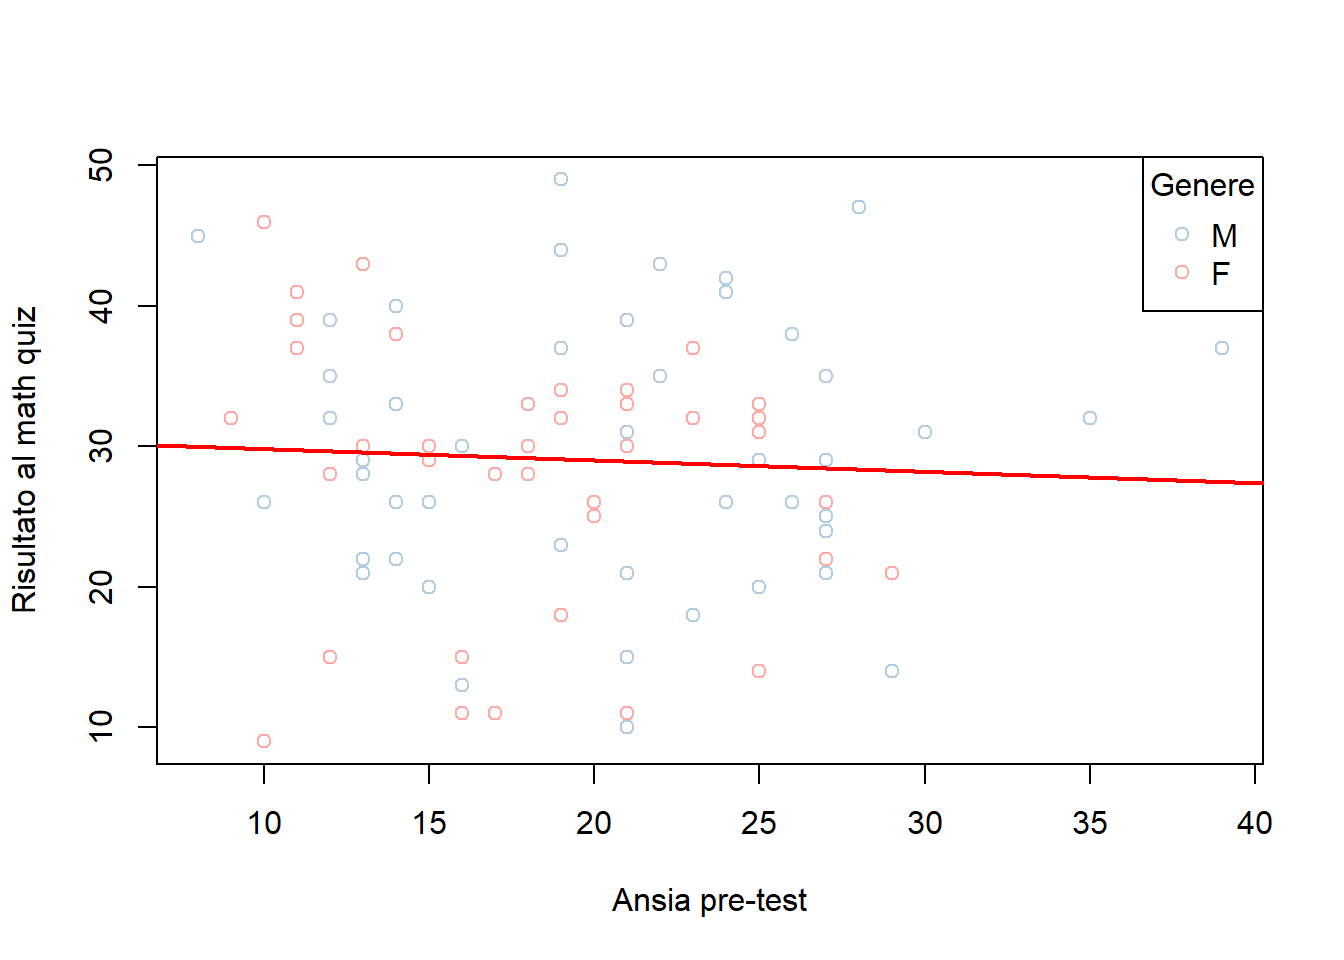
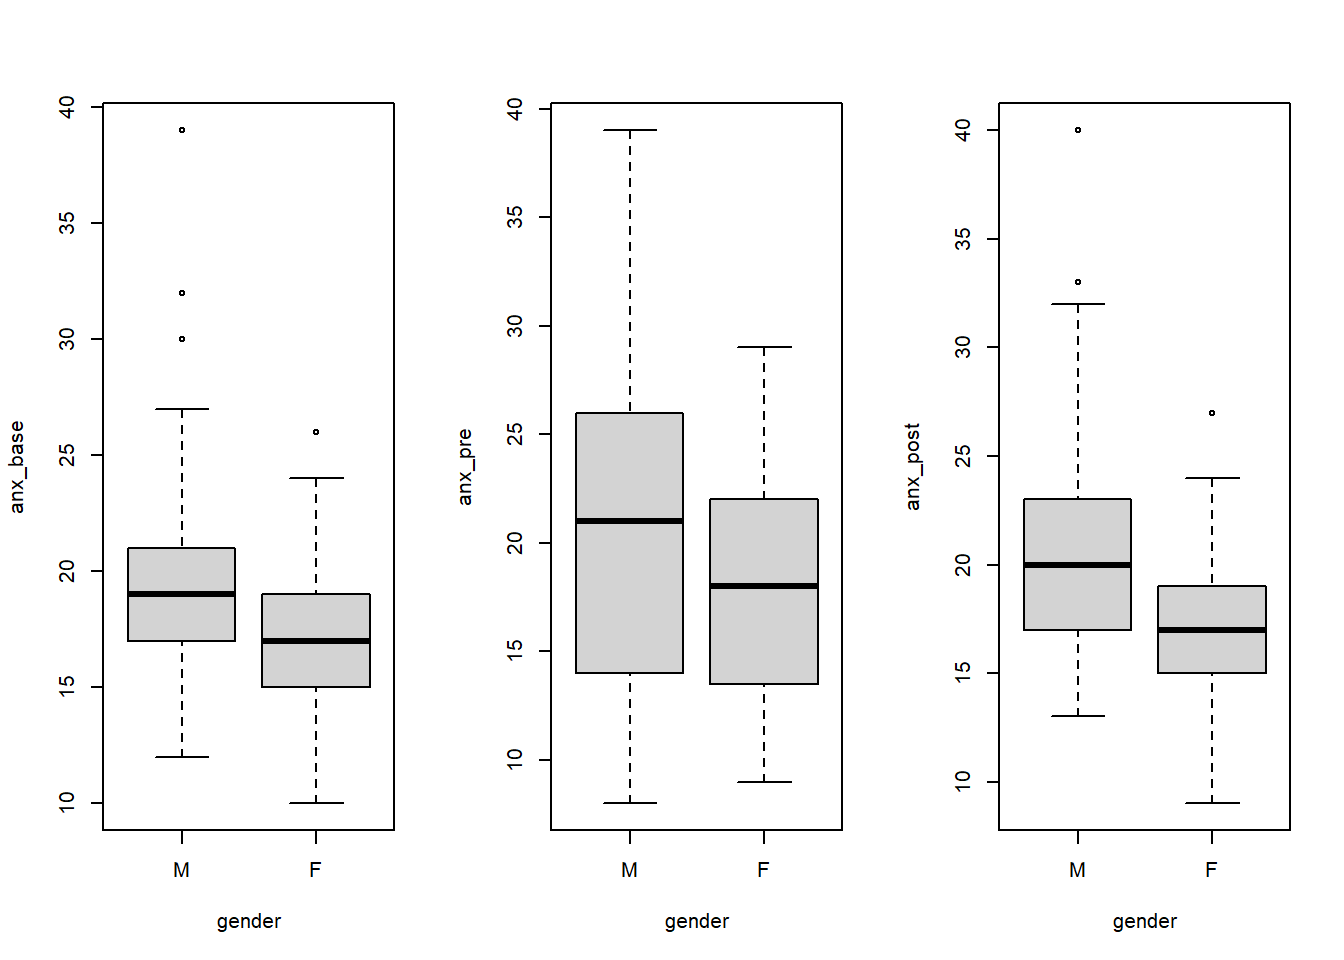
aggiornamento fine html

diff --git a/QUARTO_script_ARCA/QUARTO_script_ARCA.html b/QUARTO_script_ARCA/QUARTO_script_ARCA.html
@@ -2389,6 +2389,7 @@ window.Quarto = {
 <h1 data-number="1"><span class="header-section-number">1</span> Cominciamo!</h1>
 <section id="summary-del-dataset-per-vedere-se-è-tutto-ok" class="level2" data-number="1.1">
 <h2 data-number="1.1" class="anchored" data-anchor-id="summary-del-dataset-per-vedere-se-è-tutto-ok"><span class="header-section-number">1.1</span> Summary del dataset, per vedere se è tutto ok</h2>
+<p>Utilizziamo la library readxl <span class="citation" data-cites="readxl">(<a href="#ref-readxl" role="doc-biblioref">Wickham and Bryan 2025</a>)</span> per leggere il dataset da Excel.</p>
 <div class="cell">
 <div class="sourceCode cell-code" id="cb1"><pre class="sourceCode r code-with-copy"><code class="sourceCode r"><span id="cb1-1"><a href="#cb1-1" aria-hidden="true" tabindex="-1"></a><span class="fu">library</span>(readxl)</span>
 <span id="cb1-2"><a href="#cb1-2" aria-hidden="true" tabindex="-1"></a>dsara <span class="ot">&lt;-</span> <span class="fu">read_excel</span>(<span class="st">&quot;Quarto_ARCA/Templates/html/Sara_dataset.xls&quot;</span>)</span>
@@ -2420,7 +2421,6 @@ window.Quarto = {
                                                </code></pre>
 </div>
 </div>
-<p>Utilizziamo la library readxl <span class="citation" data-cites="readxl">(<a href="#ref-readxl" role="doc-biblioref">Wickham and Bryan 2025</a>)</span> per leggere il dataset da Excel.</p>
 <p>Dal summary notiamo che le prime 3 variabili, che dovrebbero essere categoriali, sono quantitative (dato che calcolano media e i 3 quartili), e non dovrebbe essere così. Rendiamole quindi categoriali:</p>
 <div class="cell">
 <div class="sourceCode cell-code" id="cb3"><pre class="sourceCode r code-with-copy"><code class="sourceCode r"><span id="cb3-1"><a href="#cb3-1" aria-hidden="true" tabindex="-1"></a>mydsara <span class="ot">&lt;-</span> dsara <span class="co">#è buona pratica creare un altro dataset identico per non modificare l&#39;originale</span></span>
@@ -2442,23 +2442,34 @@ window.Quarto = {
 </section>
 <section id="analisi-descrittiva" class="level1" data-number="2">
 <h1 data-number="2"><span class="header-section-number">2</span> Analisi descrittiva</h1>
-<p>Guardiamo prima di tutto come sono distribuite le variabili categoriali tramite la funzione table. In particolare, è interessante vedere se i due gender sono equamente distribuiti tra le diverse condizioni sperimentali.</p>
+<p>Guardiamo prima di tutto come sono distribuite le variabili categoriali tramite la funzione table. In particolare, è interessante vedere se i due gender sono equamente distribuiti tra le diverse condizioni sperimentali.<br>
+Tramite questa funzione, osserviamo le frequenze relative (dove il totale è per riga) di maschi e femmine tra le varie condizioni sperimentali:</p>
 <div class="cell">
-<div class="sourceCode cell-code" id="cb5"><pre class="sourceCode r code-with-copy"><code class="sourceCode r"><span id="cb5-1"><a href="#cb5-1" aria-hidden="true" tabindex="-1"></a><span class="fu">table</span>(mydsara<span class="sc">$</span>gender, mydsara<span class="sc">$</span>cond)</span></code><button title="Copy to Clipboard" class="code-copy-button"><i class="bi"></i></button></pre></div>
+<div class="sourceCode cell-code" id="cb5"><pre class="sourceCode r code-with-copy"><code class="sourceCode r"><span id="cb5-1"><a href="#cb5-1" aria-hidden="true" tabindex="-1"></a><span class="fu">round</span>(<span class="fu">prop.table</span>(<span class="fu">table</span>(mydsara<span class="sc">$</span>gender, mydsara<span class="sc">$</span>cond),<span class="at">margin=</span><span class="dv">1</span>),<span class="dv">2</span>)</span></code><button title="Copy to Clipboard" class="code-copy-button"><i class="bi"></i></button></pre></div>
 <div class="cell-output cell-output-stdout">
 <pre><code>   
-     1  2  3  4
-  M 16 15  9 17
-  F  9 10 16  8</code></pre>
+       1    2    3    4
+  M 0.28 0.26 0.16 0.30
+  F 0.21 0.23 0.37 0.19</code></pre>
 </div>
 </div>
-<p>Da questo notiamo che i maschi si trovano in condizioni più “estreme”, facili o impossibili, mentre le femmine sono distribuite maggiormente in condizioni “medie”.<br>
-A questo punto, è interessante osservare se ci sono differenze nell’ansia pre, durante e post test tra i due gender</p>
+<p>Da questo notiamo che i maschi si trovano principalmente (58%) in condizioni più “estreme”, facili o impossibili, mentre le femmine sono distribuite maggiormente (60%) in condizioni “medie”. Data questa differenza, ci aspettiamo maggiore variabilità post-test nei maschi rispetto alle femmine, verifichiamolo:</p>
 <div class="cell">
-<div class="sourceCode cell-code" id="cb7"><pre class="sourceCode r code-with-copy"><code class="sourceCode r"><span id="cb7-1"><a href="#cb7-1" aria-hidden="true" tabindex="-1"></a><span class="fu">par</span>(<span class="at">mfrow=</span><span class="fu">c</span>(<span class="dv">1</span>,<span class="dv">3</span>))</span>
-<span id="cb7-2"><a href="#cb7-2" aria-hidden="true" tabindex="-1"></a><span class="fu">boxplot</span>(anx_base <span class="sc">~</span> gender, <span class="at">data=</span>mydsara)</span>
-<span id="cb7-3"><a href="#cb7-3" aria-hidden="true" tabindex="-1"></a><span class="fu">boxplot</span>(anx_pre <span class="sc">~</span> gender, <span class="at">data=</span>mydsara)</span>
-<span id="cb7-4"><a href="#cb7-4" aria-hidden="true" tabindex="-1"></a><span class="fu">boxplot</span>(anx_post <span class="sc">~</span> gender, <span class="at">data=</span>mydsara)</span></code><button title="Copy to Clipboard" class="code-copy-button"><i class="bi"></i></button></pre></div>
+<div class="sourceCode cell-code" id="cb7"><pre class="sourceCode r code-with-copy"><code class="sourceCode r"><span id="cb7-1"><a href="#cb7-1" aria-hidden="true" tabindex="-1"></a><span class="fu">sd</span>(mydsara[mydsara<span class="sc">$</span>gender<span class="sc">==</span><span class="st">&quot;M&quot;</span>,]<span class="sc">$</span>anx_post)</span></code><button title="Copy to Clipboard" class="code-copy-button"><i class="bi"></i></button></pre></div>
+<div class="cell-output cell-output-stdout">
+<pre><code>[1] 5.06765</code></pre>
+</div>
+<div class="sourceCode cell-code" id="cb9"><pre class="sourceCode r code-with-copy"><code class="sourceCode r"><span id="cb9-1"><a href="#cb9-1" aria-hidden="true" tabindex="-1"></a><span class="fu">sd</span>(mydsara[mydsara<span class="sc">$</span>gender<span class="sc">==</span><span class="st">&quot;F&quot;</span>,]<span class="sc">$</span>anx_post)</span></code><button title="Copy to Clipboard" class="code-copy-button"><i class="bi"></i></button></pre></div>
+<div class="cell-output cell-output-stdout">
+<pre><code>[1] 3.534202</code></pre>
+</div>
+</div>
+<p>A questo punto, è interessante osservare anche tramite dei grafici se ci sono differenze nell’ansia di base, pre, e post test tra i due gender.</p>
+<div class="cell">
+<div class="sourceCode cell-code" id="cb11"><pre class="sourceCode r code-with-copy"><code class="sourceCode r"><span id="cb11-1"><a href="#cb11-1" aria-hidden="true" tabindex="-1"></a><span class="fu">par</span>(<span class="at">mfrow=</span><span class="fu">c</span>(<span class="dv">1</span>,<span class="dv">3</span>))</span>
+<span id="cb11-2"><a href="#cb11-2" aria-hidden="true" tabindex="-1"></a><span class="fu">boxplot</span>(anx_base <span class="sc">~</span> gender, <span class="at">data=</span>mydsara)</span>
+<span id="cb11-3"><a href="#cb11-3" aria-hidden="true" tabindex="-1"></a><span class="fu">boxplot</span>(anx_pre <span class="sc">~</span> gender, <span class="at">data=</span>mydsara)</span>
+<span id="cb11-4"><a href="#cb11-4" aria-hidden="true" tabindex="-1"></a><span class="fu">boxplot</span>(anx_post <span class="sc">~</span> gender, <span class="at">data=</span>mydsara)</span></code><button title="Copy to Clipboard" class="code-copy-button"><i class="bi"></i></button></pre></div>
 <div class="cell-output-display">
 <div>
 <figure class="figure">
@@ -2473,14 +2484,15 @@ A questo punto, è interessante osservare se ci sono differenze nell’ansia pre
 <h1 data-number="3"><span class="header-section-number">3</span> Correlazioni tra variabili</h1>
 <p>A questo punto, risulta interessante scoprire se l’ansia pre-test possa essere predittiva del risultato al math quiz:</p>
 <div class="cell">
-<div class="sourceCode cell-code" id="cb8"><pre class="sourceCode r code-with-copy"><code class="sourceCode r"><span id="cb8-1"><a href="#cb8-1" aria-hidden="true" tabindex="-1"></a>leg_colori<span class="ot">&lt;-</span> <span class="fu">ifelse</span>(mydsara<span class="sc">$</span>gender <span class="sc">==</span> <span class="st">&quot;M&quot;</span>, <span class="st">&quot;#b3cde0&quot;</span>, <span class="st">&quot;#ffaaa5&quot;</span>)</span>
-<span id="cb8-2"><a href="#cb8-2" aria-hidden="true" tabindex="-1"></a><span class="fu">plot</span>(mydsara<span class="sc">$</span>anx_pre,mydsara<span class="sc">$</span>mathquiz, <span class="at">col =</span> leg_colori, <span class="at">xlab=</span><span class="st">&quot;Ansia pre-test&quot;</span>, <span class="at">ylab=</span><span class="st">&quot;Risultato al math quiz&quot;</span>)</span>
-<span id="cb8-3"><a href="#cb8-3" aria-hidden="true" tabindex="-1"></a>risultati_premat <span class="ot">&lt;-</span> <span class="fu">cor.test</span>(mydsara<span class="sc">$</span>anx_pre, mydsara<span class="sc">$</span>mathquiz)</span>
-<span id="cb8-4"><a href="#cb8-4" aria-hidden="true" tabindex="-1"></a>cor_premat <span class="ot">&lt;-</span> <span class="fu">round</span>(risultati_premat<span class="sc">$</span>estimate,<span class="dv">3</span>)</span>
-<span id="cb8-5"><a href="#cb8-5" aria-hidden="true" tabindex="-1"></a>pvalue_premat <span class="ot">&lt;-</span> <span class="fu">round</span>(risultati_premat<span class="sc">$</span>p.value,<span class="dv">3</span>)</span>
-<span id="cb8-6"><a href="#cb8-6" aria-hidden="true" tabindex="-1"></a>modello <span class="ot">&lt;-</span> <span class="fu">lm</span>(mathquiz <span class="sc">~</span> anx_pre, <span class="at">data =</span> mydsara)</span>
-<span id="cb8-7"><a href="#cb8-7" aria-hidden="true" tabindex="-1"></a><span class="fu">abline</span>(modello, <span class="at">col =</span> <span class="st">&quot;red&quot;</span>, <span class="at">lwd =</span> <span class="dv">2</span>)</span>
-<span id="cb8-8"><a href="#cb8-8" aria-hidden="true" tabindex="-1"></a><span class="fu">legend</span>(<span class="st">&quot;topright&quot;</span>, <span class="at">legend =</span> <span class="fu">c</span>(<span class="st">&quot;M&quot;</span>, <span class="st">&quot;F&quot;</span>),  <span class="at">col =</span> <span class="fu">c</span>(<span class="st">&quot;#b3cde0&quot;</span>, <span class="st">&quot;#ffaaa5&quot;</span>), <span class="at">pch =</span> <span class="dv">1</span>, <span class="at">title =</span> <span class="st">&quot;Genere&quot;</span>)</span></code><button title="Copy to Clipboard" class="code-copy-button"><i class="bi"></i></button></pre></div>
+<div class="sourceCode cell-code" id="cb12"><pre class="sourceCode r code-with-copy"><code class="sourceCode r"><span id="cb12-1"><a href="#cb12-1" aria-hidden="true" tabindex="-1"></a>leg_colori<span class="ot">&lt;-</span> <span class="fu">ifelse</span>(mydsara<span class="sc">$</span>gender <span class="sc">==</span> <span class="st">&quot;M&quot;</span>, <span class="st">&quot;#b3cde0&quot;</span>, <span class="st">&quot;#ffaaa5&quot;</span>)</span>
+<span id="cb12-2"><a href="#cb12-2" aria-hidden="true" tabindex="-1"></a><span class="fu">plot</span>(mydsara<span class="sc">$</span>anx_pre,mydsara<span class="sc">$</span>mathquiz, <span class="at">col =</span> leg_colori, <span class="at">xlab=</span><span class="st">&quot;Ansia pre-test&quot;</span>, <span class="at">ylab=</span><span class="st">&quot;Risultato al math quiz&quot;</span>)</span>
+<span id="cb12-3"><a href="#cb12-3" aria-hidden="true" tabindex="-1"></a><span class="fu">legend</span>(<span class="st">&quot;topright&quot;</span>, <span class="at">legend =</span> <span class="fu">c</span>(<span class="st">&quot;M&quot;</span>, <span class="st">&quot;F&quot;</span>),  <span class="at">col =</span> <span class="fu">c</span>(<span class="st">&quot;#b3cde0&quot;</span>, <span class="st">&quot;#ffaaa5&quot;</span>), <span class="at">pch =</span> <span class="dv">1</span>, <span class="at">title =</span> <span class="st">&quot;Genere&quot;</span>)</span>
+<span id="cb12-4"><a href="#cb12-4" aria-hidden="true" tabindex="-1"></a></span>
+<span id="cb12-5"><a href="#cb12-5" aria-hidden="true" tabindex="-1"></a>risultati_premat <span class="ot">&lt;-</span> <span class="fu">cor.test</span>(mydsara<span class="sc">$</span>anx_pre, mydsara<span class="sc">$</span>mathquiz)</span>
+<span id="cb12-6"><a href="#cb12-6" aria-hidden="true" tabindex="-1"></a>cor_premat <span class="ot">&lt;-</span> <span class="fu">round</span>(risultati_premat<span class="sc">$</span>estimate,<span class="dv">3</span>)</span>
+<span id="cb12-7"><a href="#cb12-7" aria-hidden="true" tabindex="-1"></a>pvalue_premat <span class="ot">&lt;-</span> <span class="fu">round</span>(risultati_premat<span class="sc">$</span>p.value,<span class="dv">3</span>)</span>
+<span id="cb12-8"><a href="#cb12-8" aria-hidden="true" tabindex="-1"></a>modello <span class="ot">&lt;-</span> <span class="fu">lm</span>(mathquiz <span class="sc">~</span> anx_pre, <span class="at">data =</span> mydsara)</span>
+<span id="cb12-9"><a href="#cb12-9" aria-hidden="true" tabindex="-1"></a><span class="fu">abline</span>(modello, <span class="at">col =</span> <span class="st">&quot;red&quot;</span>, <span class="at">lwd =</span> <span class="dv">2</span>)</span></code><button title="Copy to Clipboard" class="code-copy-button"><i class="bi"></i></button></pre></div>
 <div class="cell-output-display">
 <div>
 <figure class="figure">
@@ -2489,19 +2501,19 @@ A questo punto, è interessante osservare se ci sono differenze nell’ansia pre
 </div>
 </div>
 </div>
-<p>Dal grafico si nota che la correlazione tra ansia pre-test e math_quiz risulta <span style="color:red;">NON</span> essere significativa –&gt; <span class="math inline">\(r =\)</span> -0.055 , <span class="math inline">\(p =\)</span> 0.618</p>
+<p>Dal grafico si nota che la correlazione tra ansia pre-test e math_quiz risulta <span style="color:red;">NON</span> essere significativa: <span class="math inline">\(r =\)</span> -0.055 , <span class="math inline">\(p =\)</span> 0.618</p>
 <div class="quarto-figure quarto-figure-right">
 <figure class="figure">
[1 lines of base64/hex data omitted]
 </figure>
 </div>
 <div style="text-align: right;">
-<p><em>… se Altoè vedesse questa immagine non so cosa mi farebbe</em></p>
+<p><em>… se Altoè vedesse questa immagine non so cosa mi direbbe</em></p>
 </div>
 </section>
 <section id="conclusioni" class="level1" data-number="4">
 <h1 data-number="4"><span class="header-section-number">4</span> Conclusioni</h1>
-<p>In questa piccola analisi descrittiva è stato esplorato il dataset “Sara_dataset”, osservando prima di tutto la natura delle variabili. Successivamente, sono state descritte le differenze tra maschi e femmine nell’ansia di base, pre- e post-test, osservando che l’ansia mediana dei maschi era notevolmente più elevata rispetto a quella delle femmine.<br>
+<p>In questa analisi descrittiva è stato esplorato il dataset “Sara_dataset”, osservando prima di tutto la natura delle variabili. Successivamente, sono state descritte le differenze tra maschi e femmine nell’ansia di base, pre- e post-test, osservando che l’ansia mediana dei maschi era notevolmente più elevata rispetto a quella delle femmine.<br>
 Infine, è stata analizzata la correlazione tra l’ansia pre-test e i risultati al quiz di matematica, ed è stato dimostrato che non esiste alcuna correlazione significativa tra queste due variabili.</p>
 <div class="columns">
 <div class="column" style="width:45%;">
